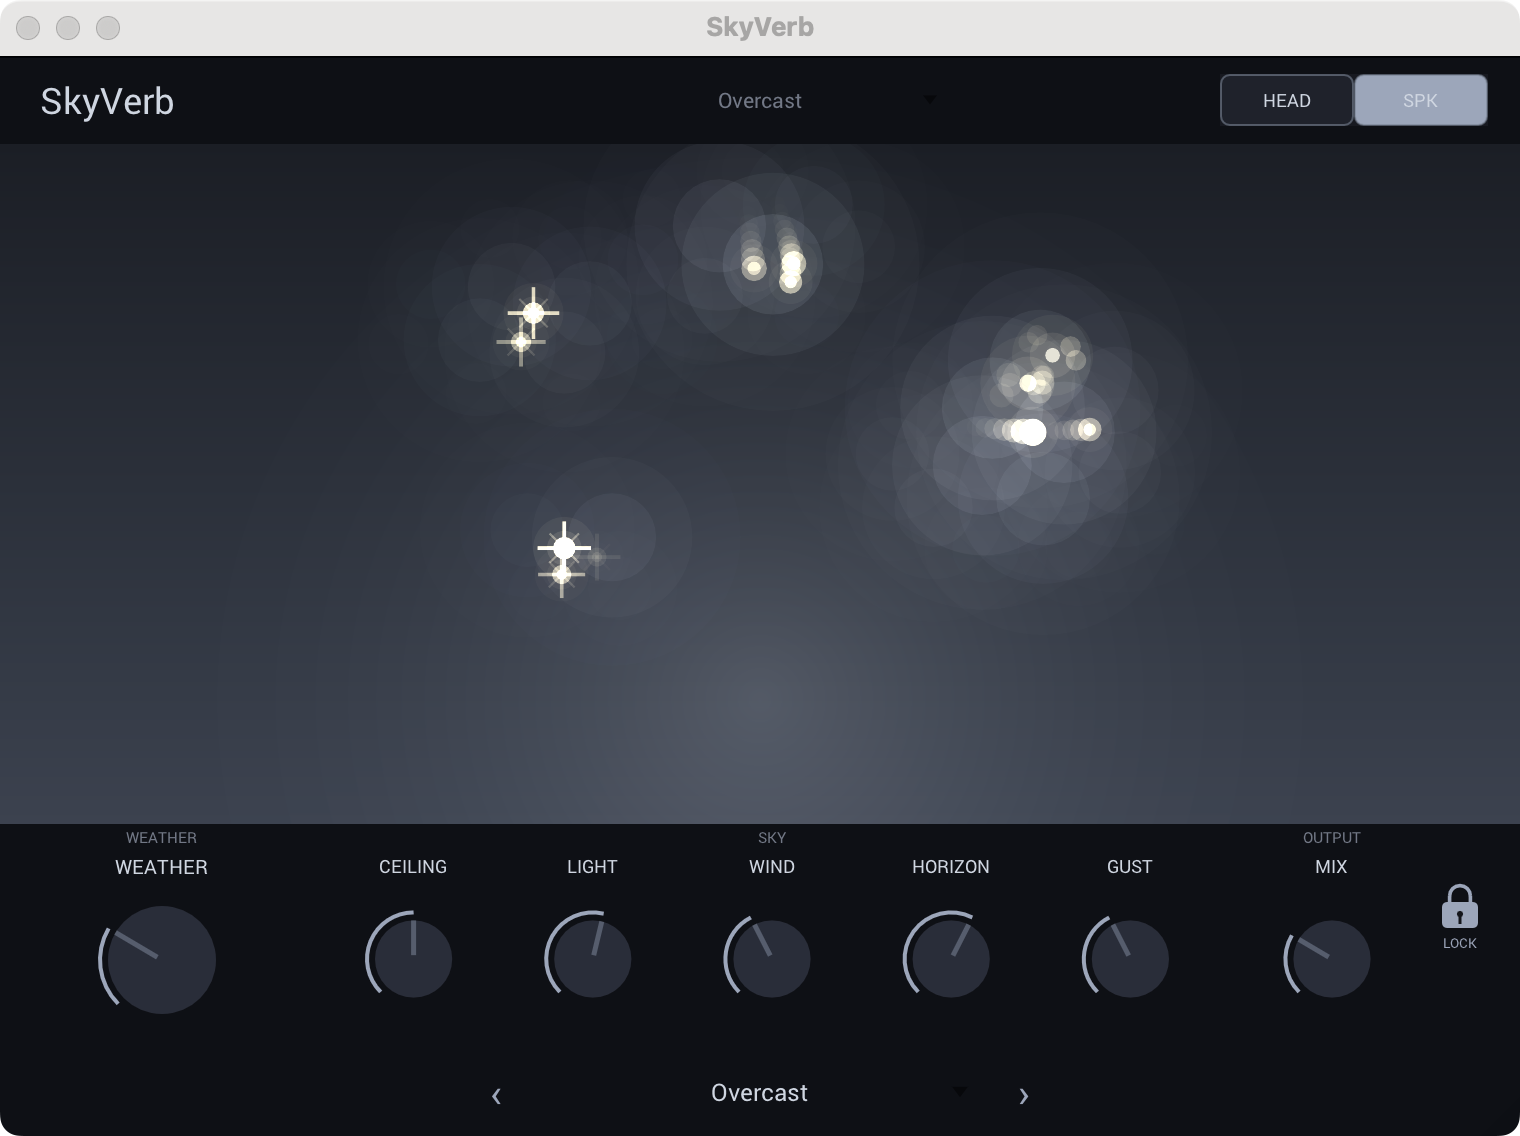
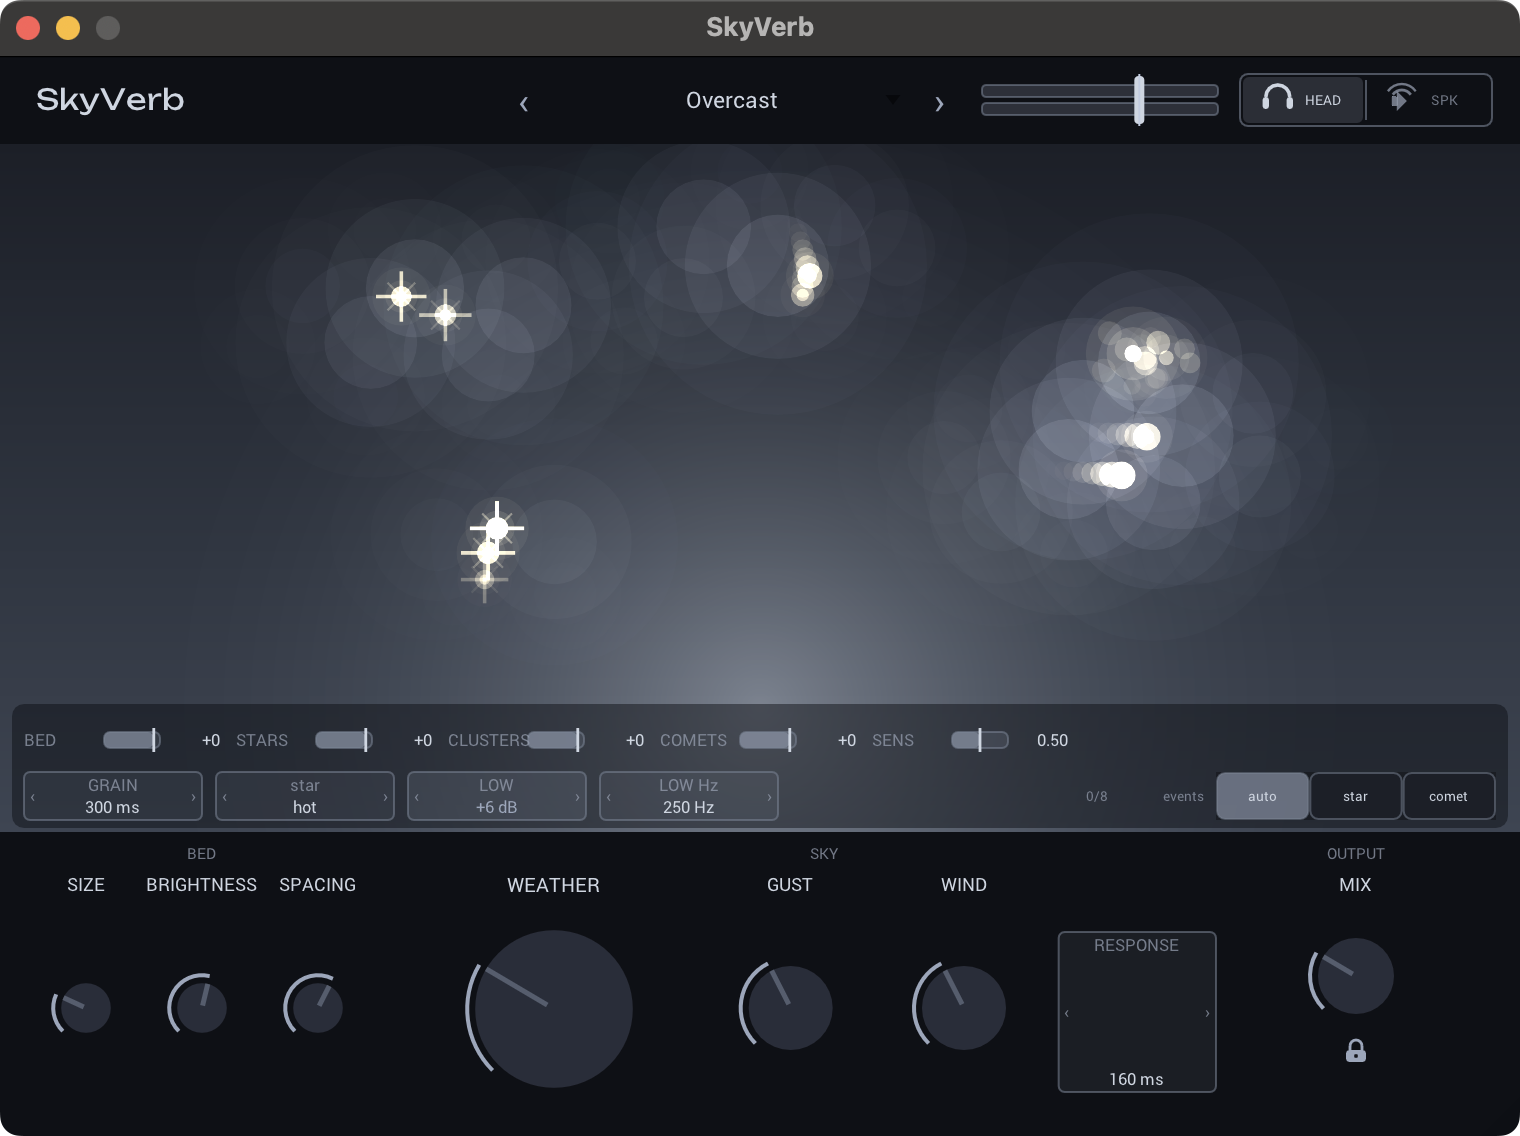
SkyVerb 1.0.16: Unbounded wordmark, refreshed copy, direct download links, fresh screenshot

diff --git a/index.html b/index.html
@@ -6,8 +6,11 @@
 <title>kelegorm — audio plugin developer</title>
 <meta name="description" content="kelegorm — audio plugin developer. SkyVerb: a binaural weather reverb that turns any sound into weather. KVR Developer Challenge 2026 entry.">
 <meta property="og:title" content="kelegorm — audio plugin developer">
-<meta property="og:description" content="SkyVerb — a binaural weather reverb. Turns any sound into weather. Coming July 6, 2026.">
+<meta property="og:description" content="SkyVerb — a binaural weather reverb. Turns any sound into weather. Out now — free forever.">
 <meta name="theme-color" content="#080b12">
+<link rel="preconnect" href="https://fonts.googleapis.com">
+<link rel="preconnect" href="https://fonts.gstatic.com" crossorigin>
+<link href="https://fonts.googleapis.com/css2?family=Unbounded:wght@200;300&display=swap" rel="stylesheet">
 <style>
   :root{
     --void:#070a11;
@@ -165,11 +168,12 @@
     font-weight:400;
   }
   .teaser h2{
-    margin:0 0 .5rem;
-    font-size:clamp(2.9rem,10vw,5.2rem);
+    margin:0 0 .7rem;
+    font-family:'Unbounded',-apple-system,BlinkMacSystemFont,"Segoe UI",sans-serif;
+    font-size:clamp(2.3rem,8vw,4.1rem);
     font-weight:200;
-    letter-spacing:-.005em;
-    line-height:1;
+    letter-spacing:.01em;
+    line-height:1.08;
     background:linear-gradient(150deg,#ffffff 0%,#d7e0f2 42%,#f1ddb4 118%);
     -webkit-background-clip:text;
     background-clip:text;
@@ -218,6 +222,34 @@
   .status b{color:var(--ink);font-weight:500;}
   .status .free{color:var(--gold);font-weight:400;letter-spacing:.08em;text-transform:uppercase;font-size:.78em;}
   @keyframes pulse{0%,100%{opacity:1;}50%{opacity:.4;}}
+
+  /* downloads */
+  .downloads{
+    display:flex;
+    gap:1rem;
+    flex-wrap:wrap;
+    margin:clamp(1.6rem,4vh,2.2rem) 0 0;
+  }
+  .dl{
+    display:flex;
+    flex-direction:column;
+    gap:.3rem;
+    padding:1rem 1.35rem;
+    border:1px solid var(--line);
+    border-radius:14px;
+    background:rgba(150,172,208,0.06);
+    text-decoration:none;
+    transition:border-color .25s ease,background .25s ease;
+  }
+  .dl:hover{border-color:var(--gold);background:rgba(241,221,180,0.07);}
+  .dl b{color:var(--ink);font-weight:500;letter-spacing:.02em;}
+  .dl span{color:var(--faint);font-size:.82rem;letter-spacing:.03em;}
+  .dlnote{
+    margin:.9rem 0 0;
+    font-size:.82rem;
+    color:var(--faint);
+    letter-spacing:.02em;
+  }
 
   /* screenshot */
   .stage{
@@ -297,21 +329,34 @@
       <p class="tagline">a binaural weather reverb <span class="em">— turns any sound into weather</span></p>
 
       <p class="lede">
-        A dense stereo reverb bed paints the open sky, while individual binaural
-        events <span class="glow">— glints, comets, star showers —</span> are placed around
-        your head in true 3D. Clouds drift; the sky answers your playing.
+        A dense stereo sky bed paints the open air, while binaural
+        <span class="glow">stars answer your playing</span> — placed around your head in
+        true 3D, at the exact directions you hear them. Clouds drift on the wind;
+        the sky is alive to every phrase.
       </p>
 
       <span class="status">
         <span class="beacon" aria-hidden="true"></span>
-        Coming <b>July&nbsp;6,&nbsp;2026</b> &middot; KVR Developer Challenge 2026 entry
+        <b>Out now</b> &middot; v1.0.16 &middot; KVR Developer Challenge 2026 entry
         <span class="free">Free forever</span>
       </span>
+
+      <div class="downloads">
+        <a class="dl" href="https://github.com/kelegorm/kelegorm.github.io/releases/latest/download/SkyVerb-macOS.zip">
+          <b>Download for macOS</b>
+          <span>VST3 + AU &middot; universal (Intel &amp; Apple Silicon) &middot; macOS 12+</span>
+        </a>
+        <a class="dl" href="https://github.com/kelegorm/kelegorm.github.io/releases/latest/download/SkyVerb-Windows-x64.zip">
+          <b>Download for Windows</b>
+          <span>VST3 &middot; 64-bit &middot; Windows 10/11 (Windows-on-ARM via x64 hosts)</span>
+        </a>
+      </div>
+      <p class="dlnote">Unsigned freeware — first-run notes are in the included manual. A Linux build is on the roadmap; meanwhile the Windows VST3 runs via yabridge.</p>
 
       <div class="stage">
         <figure class="shot">
           <img src="skyverb.png" width="1520" height="1136"
-               alt="SkyVerb plugin interface — a painted night sky with glowing binaural events above a row of weather controls: Weather, Ceiling, Light, Wind, Horizon, Gust, Mix.">
+               alt="SkyVerb plugin interface — a painted night sky with glowing clouds and stars above a row of weather knobs.">
         </figure>
         <figcaption>SkyVerb &middot; the “Overcast” sky</figcaption>
       </div>